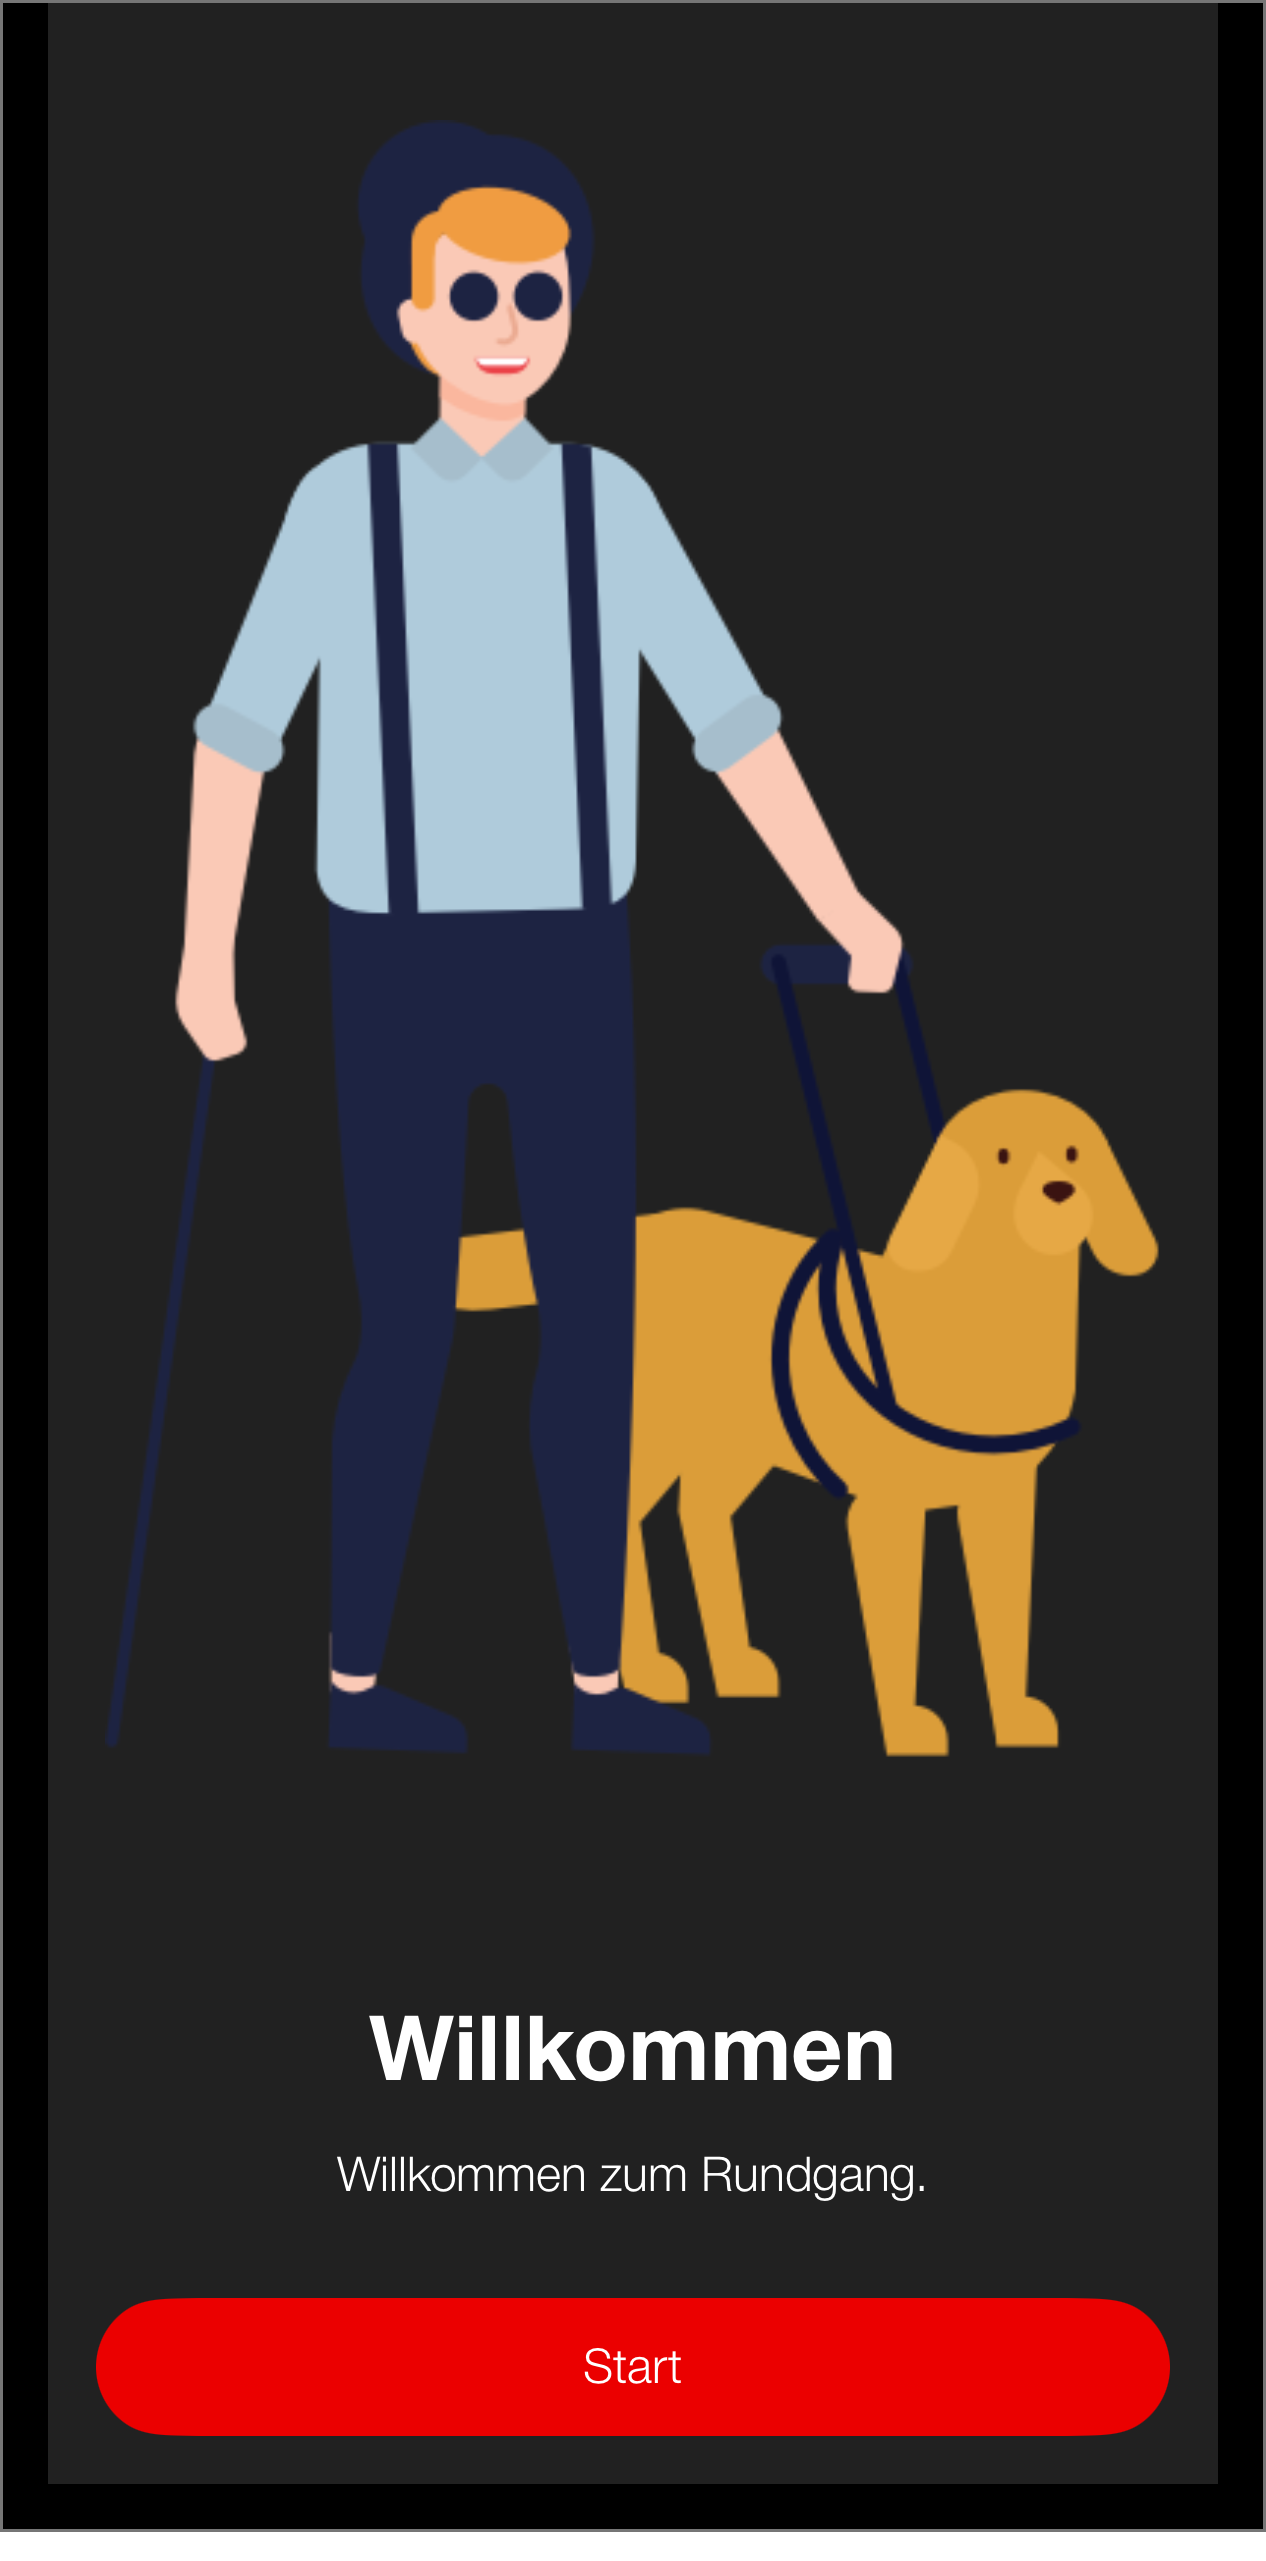
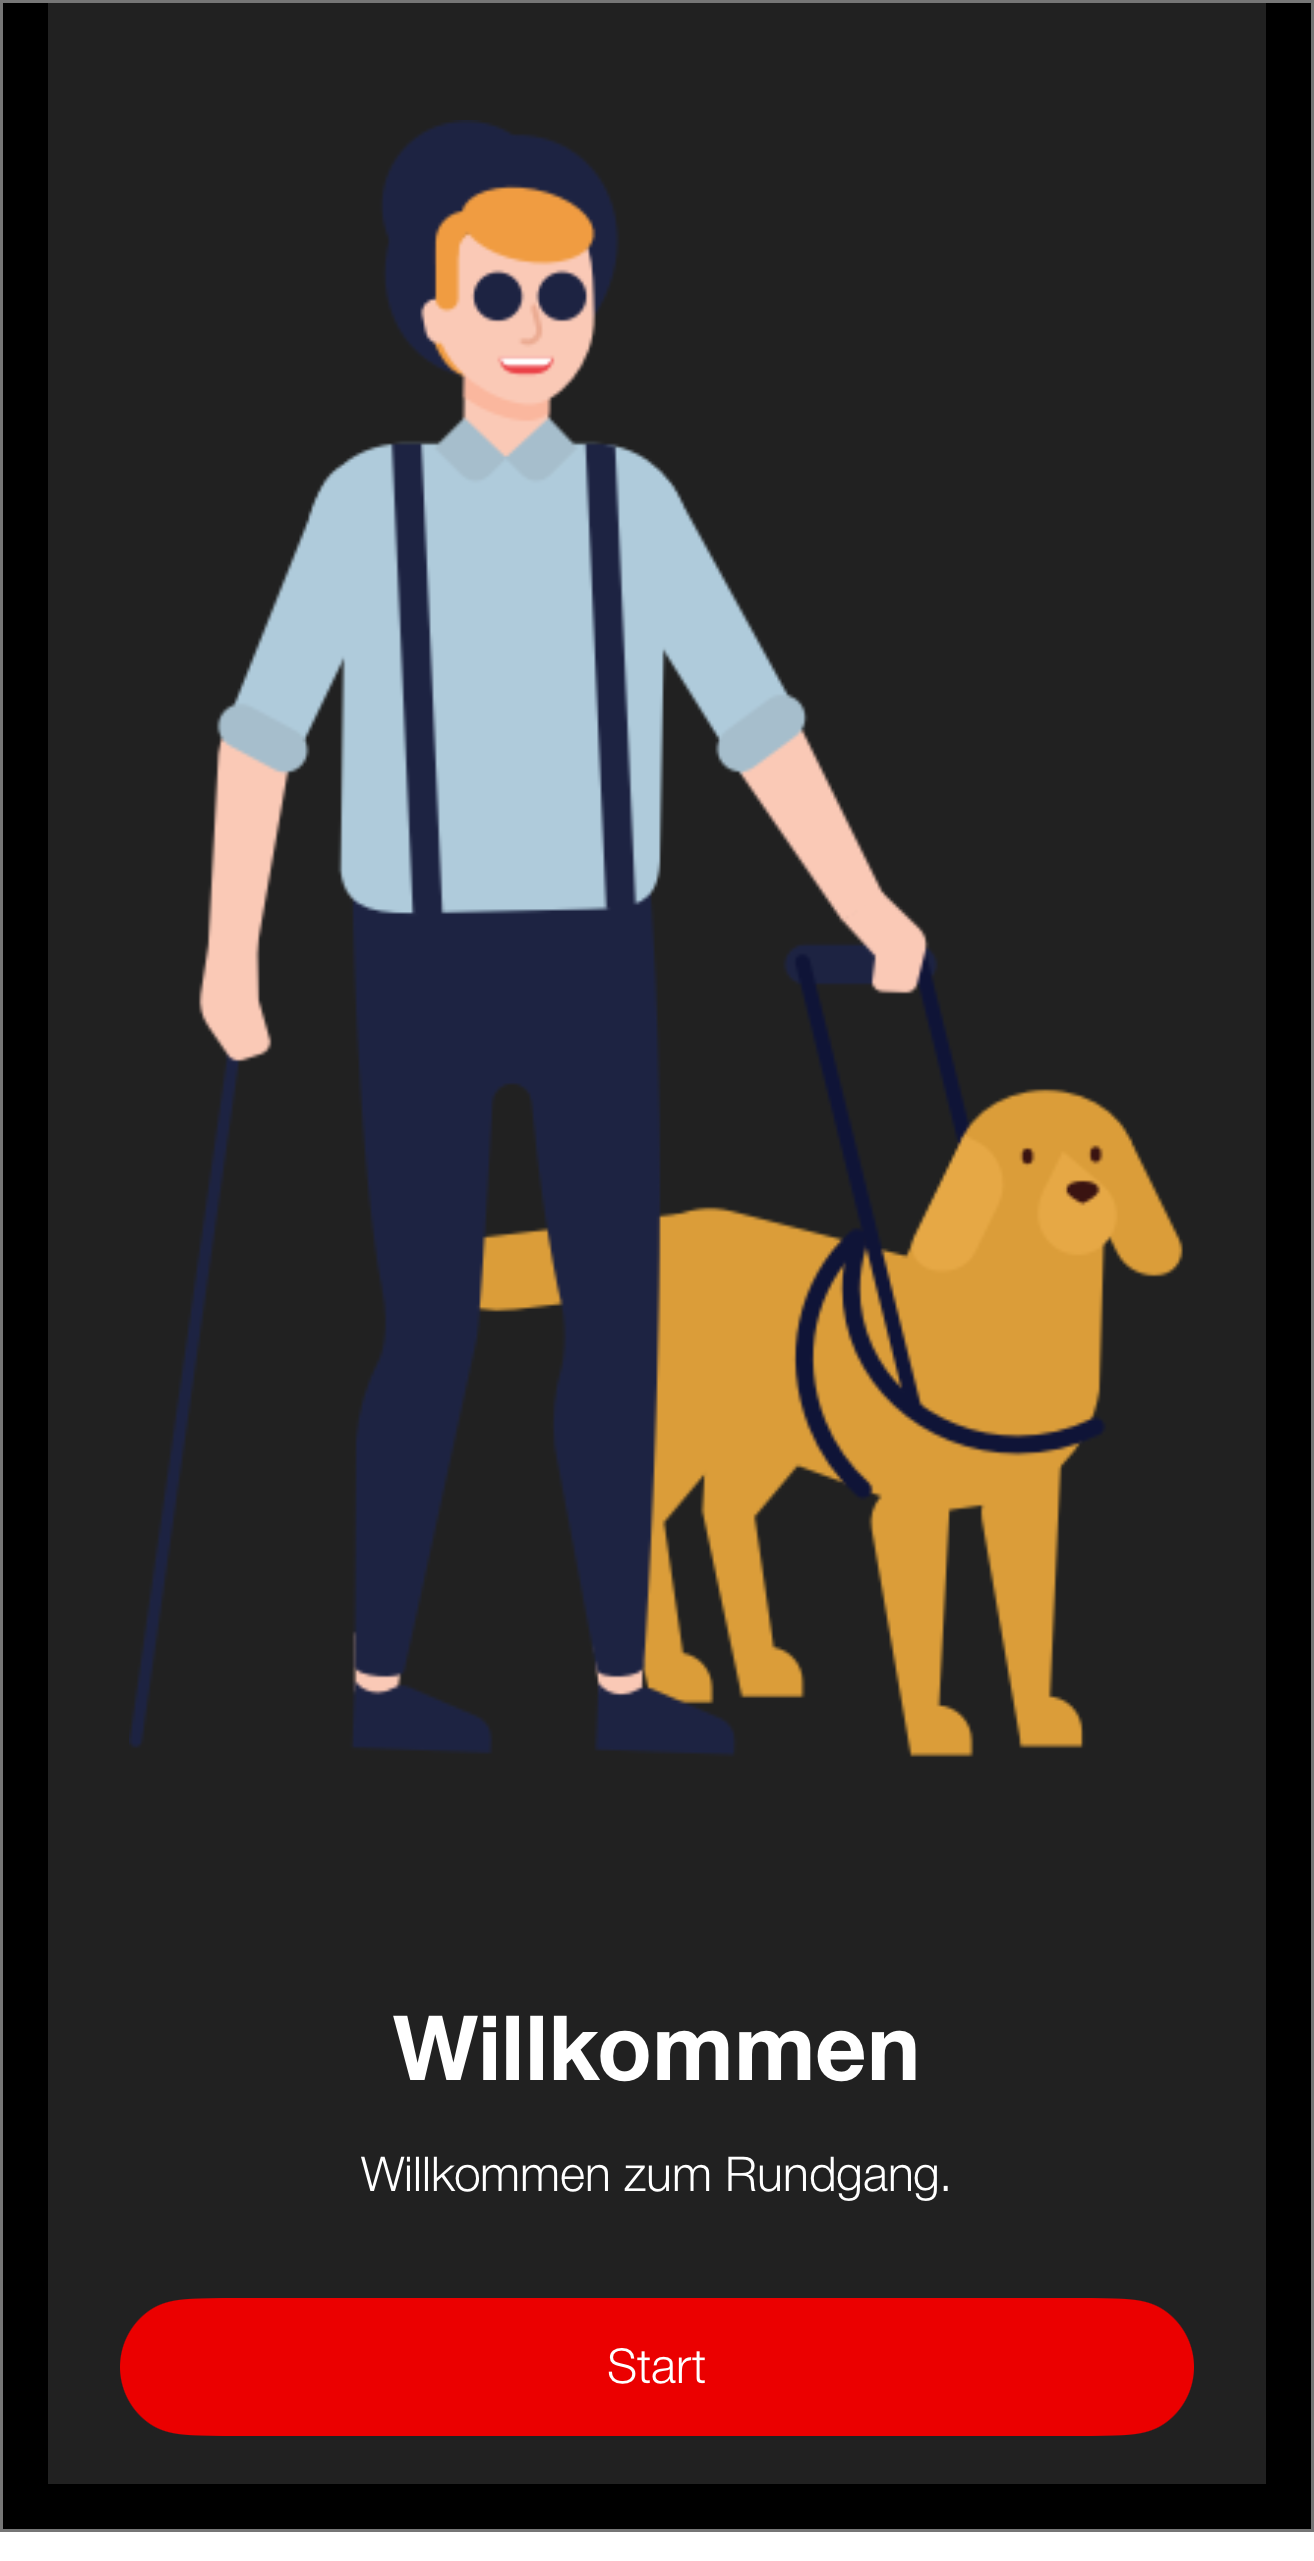
fix: onboarding use scrollview if accessibility size

diff --git a/SBBDesignSystemMobileSwiftUI/Views/SBBOnboardingWrapper/SBBCardView.swift b/SBBDesignSystemMobileSwiftUI/Views/SBBOnboardingWrapper/SBBCardView.swift
@@ -19,12 +19,11 @@ public struct SBBCardView<Card: Equatable>: View {
     @Environment(\.verticalSizeClass) var verticalSizeClass
     @Environment(\.sizeCategory) private var sizeCategory
     
-    private let widthPortrait: CGFloat?
-    
     private let contentWidthLandscape: CGFloat?
     private let buttonWidthLandscape: CGFloat?
-    private let contentHeight: CGFloat?
-        
+    
+    private let scrollViewHeight: CGFloat?
+    
     public init(image: Image, title: Text, text: Text, size: CGSize? = nil, showTrySheet: Binding<Bool>, nextCard: Card?, onNext: @escaping (Card?) -> Void) {
         self.image = image
         self.title = title
@@ -35,13 +34,12 @@ public struct SBBCardView<Card: Equatable>: View {
         self.nextCard = nextCard
         self.onNext = onNext
         
-        self.widthPortrait = size?.width != nil ? size!.width : nil
-        self.contentHeight = size?.height != nil ? 3 * size!.height / 4 : nil
         self.contentWidthLandscape = size?.width != nil ? 3 * size!.width / 4 : nil
         self.buttonWidthLandscape = size?.width != nil ? size!.width / 4 : nil
+        self.scrollViewHeight = size?.width != nil ? size!.height - 54 - 16 : nil
     }
     
-    public init(image: Image, title: Text, text: Text, titleLineLimit: Int = 1, size: CGSize? = nil, nextCard: Card?, onNext: @escaping (Card?) -> Void) {
+    public init(image: Image, title: Text, text: Text, size: CGSize? = nil, nextCard: Card?, onNext: @escaping (Card?) -> Void) {
         self.image = image
         self.title = title
         self.text = text
@@ -51,10 +49,9 @@ public struct SBBCardView<Card: Equatable>: View {
         self.nextCard = nextCard
         self.onNext = onNext
         
-        self.widthPortrait = size?.width != nil ? size!.width : nil
-        self.contentHeight = size?.height != nil ? 3 * size!.height / 4 : nil
         self.contentWidthLandscape = size?.width != nil ? 3 * size!.width / 4 : nil
         self.buttonWidthLandscape = size?.width != nil ? size!.width / 4 : nil
+        self.scrollViewHeight = size?.width != nil ? size!.height - 54 - 16 : nil
     }
     
     private var imageView: some View {
@@ -91,29 +88,48 @@ public struct SBBCardView<Card: Equatable>: View {
         .buttonStyle(SBBPrimaryButtonStyle(sizeToFit: !sizeCategory.isAccessibilityCategory && self.horizontalSizeClass == .compact && self.verticalSizeClass == .regular))
     }
     
+    private var contentView: some View {
+        VStack(spacing: 16) {
+            title
+                .font(.sbbBold(size: sizeCategory.isAccessibilityCategory ? 20 : 30))
+                .foregroundColor(Color.sbbColor(.textBlack))
+                .minimumScaleFactor(0.1)
+                .multilineTextAlignment(.center)
+                .accessibility(addTraits: .isHeader)
+            text
+                .sbbFont(.medium_light)
+                .multilineTextAlignment(.center)
+                .minimumScaleFactor(0.1)
+        }
+    }
+    
+    @ViewBuilder
+    private var dynamicPortraitContentView: some View {
+        if sizeCategory.isAccessibilityCategory {
+            ScrollView(showsIndicators: false) {
+                contentView
+                    .padding(.bottom, 32 + (sizeCategory.isAccessibilityCategory ? 108 : 54))
+            }
+            .frame(height: scrollViewHeight)
+        } else {
+            contentView
+                .padding(.bottom, 32 + (sizeCategory.isAccessibilityCategory ? 108 : 54))
+        }
+    }
+    
     private var portraitView: some View {
         ZStack(alignment: .bottom) {
             VStack {
-                imageView
-                Spacer()
+                if !sizeCategory.isAccessibilityCategory {
+                    imageView
+                    Spacer()
+                }
             }
             
             HStack(spacing: 0) {
                 Spacer()
-                VStack(spacing: 32) {
-                    VStack(spacing: 16) {
-                        title
-                            .font(.sbbBold(size: sizeCategory.isAccessibilityCategory ? 20 : 30))
-                            .foregroundColor(Color.sbbColor(.textBlack))
-                            .minimumScaleFactor(0.1)
-                            .multilineTextAlignment(.center)
-                            .accessibility(addTraits: .isHeader)
-                        text
-                            .sbbFont(.medium_light)
-                            .multilineTextAlignment(.center)
-                            .minimumScaleFactor(0.1)
-                    }
-                    .frame(height: sizeCategory.isAccessibilityCategory ? contentHeight : nil)
+                ZStack(alignment: .bottom) {
+                    dynamicPortraitContentView
                     
                     if sizeCategory.isAccessibilityCategory {
                         VStack(spacing: 8) {
@@ -137,7 +153,6 @@ public struct SBBCardView<Card: Equatable>: View {
             .padding(.horizontal, 32)
             .padding(.bottom, 32)
             .padding(.top, 24)
-            .frame(width: sizeCategory.isAccessibilityCategory ? widthPortrait : nil)
             .foregroundColor(.sbbColor(.textBlack))
             .background(Color.sbbColor(.viewBackground))
             .cornerRadius(16, corners: [.topLeft, .topRight])
@@ -145,47 +160,52 @@ public struct SBBCardView<Card: Equatable>: View {
         }
     }
     
-    private var landscapeView: some View {
-            ZStack {
-                imageView
-                
-                VStack(spacing: 0) {
-                    Spacer()
-                    HStack(spacing: 0) {
-                        Spacer()
-                        VStack(spacing: 16) {
-                            title
-                                .font(.sbbBold(size: sizeCategory.isAccessibilityCategory ? 20 : 30))
-                                .foregroundColor(Color.sbbColor(.textBlack))
-                                .minimumScaleFactor(0.1)
-                                .multilineTextAlignment(.center)
-                                .accessibility(addTraits: .isHeader)
-                            text
-                                .sbbFont(.medium_light)
-                                .multilineTextAlignment(.center)
-                                .minimumScaleFactor(0.1)
-                        }
-                        .padding(.horizontal, 32)
-                        .frame(width: sizeCategory.isAccessibilityCategory ? contentWidthLandscape : nil, height: sizeCategory.isAccessibilityCategory ? contentHeight : nil)
-                        
-                        VStack(spacing: 16) {
-                            if canBeTried {
-                                tryButton
-                            }
-                            nextButton
-                        }
-                        .padding(.leading, 16)
-                        .padding(.trailing, 32)
-                        .frame(width: buttonWidthLandscape)
-                        Spacer()
-                    }
+    @ViewBuilder
+    private var dynamicLandscapeContentView: some View {
+        if sizeCategory.isAccessibilityCategory {
+            ScrollView(showsIndicators: false) {
+                contentView
                     .padding(.bottom, 32)
-                    .padding(.top, 24)
-                    .foregroundColor(.sbbColor(.textBlack))
-                    .background(Color.sbbColor(.viewBackground))
-                    .cornerRadius(16, corners: [.topLeft, .topRight])
-                    .shadow(color: Color.sbbColor(.tabshadow), radius: 20, x: 0, y: 0)
+            }
+            .frame(height: scrollViewHeight)
+            .padding(.horizontal, 32)
+        } else {
+            contentView
+                .padding(.horizontal, 32)
+        }
+    }
+    
+    private var landscapeView: some View {
+        ZStack(alignment: .bottom) {
+            VStack {
+                if !sizeCategory.isAccessibilityCategory {
+                    imageView
                 }
+                Spacer()
+            }
+            
+            HStack(spacing: 0) {
+                Spacer()
+                
+                dynamicLandscapeContentView
+                
+                VStack(spacing: 16) {
+                    if canBeTried {
+                        tryButton
+                    }
+                    nextButton
+                }
+                .padding(.leading, 16)
+                .padding(.trailing, 32)
+                .frame(width: buttonWidthLandscape)
+                Spacer()
+            }
+            .padding(.bottom, 32)
+            .padding(.top, 24)
+            .foregroundColor(.sbbColor(.textBlack))
+            .background(Color.sbbColor(.viewBackground))
+            .cornerRadius(16, corners: [.topLeft, .topRight])
+            .shadow(color: Color.sbbColor(.tabshadow), radius: 20, x: 0, y: 0)
         }
     }
     
@@ -198,7 +218,7 @@ public struct SBBCardView<Card: Equatable>: View {
             }
         }
         .edgesIgnoringSafeArea(.all)
-        .background(Color.sbbColor(.viewBackground))
+        .background(Color.sbbColor(.viewBackground).edgesIgnoringSafeArea(.all))
     }
 }
 

diff --git a/SBBDesignSystemMobileSwiftUI/Views/SBBOnboardingWrapper/SBBTitleView.swift b/SBBDesignSystemMobileSwiftUI/Views/SBBOnboardingWrapper/SBBTitleView.swift
@@ -52,27 +52,31 @@ public struct SBBTitleView<ButtonView: View>: View {
     }
     
     private var portraitView: some View {
-        VStack(spacing: sizeCategory.isAccessibilityCategory ? 0 : 32) {
-            if !sizeCategory.isAccessibilityCategory {
-                VStack {
-                    Spacer()
-                    imageView
+        HStack {
+            Spacer()
+            VStack(spacing: sizeCategory.isAccessibilityCategory ? 0 : 32) {
+                if !sizeCategory.isAccessibilityCategory {
+                    VStack {
+                        Spacer()
+                        imageView
+                        Spacer()
+                    }
+                }
+                Spacer()
+                
+                VStack(spacing: 16) {
+                    titleView
+                    subtitleView
+                }
+                .foregroundColor(.sbbColor(.white))
+                
+                if sizeCategory.isAccessibilityCategory {
                     Spacer()
                 }
+                
+                buttonView
             }
             Spacer()
-            
-            VStack(spacing: 16) {
-                titleView
-                subtitleView
-            }
-            .foregroundColor(.sbbColor(.white))
-            
-            if sizeCategory.isAccessibilityCategory {
-                Spacer()
-            }
-                        
-            buttonView
         }
         .sbbScreenPadding(.horizontal)
         .sbbScreenPadding()
